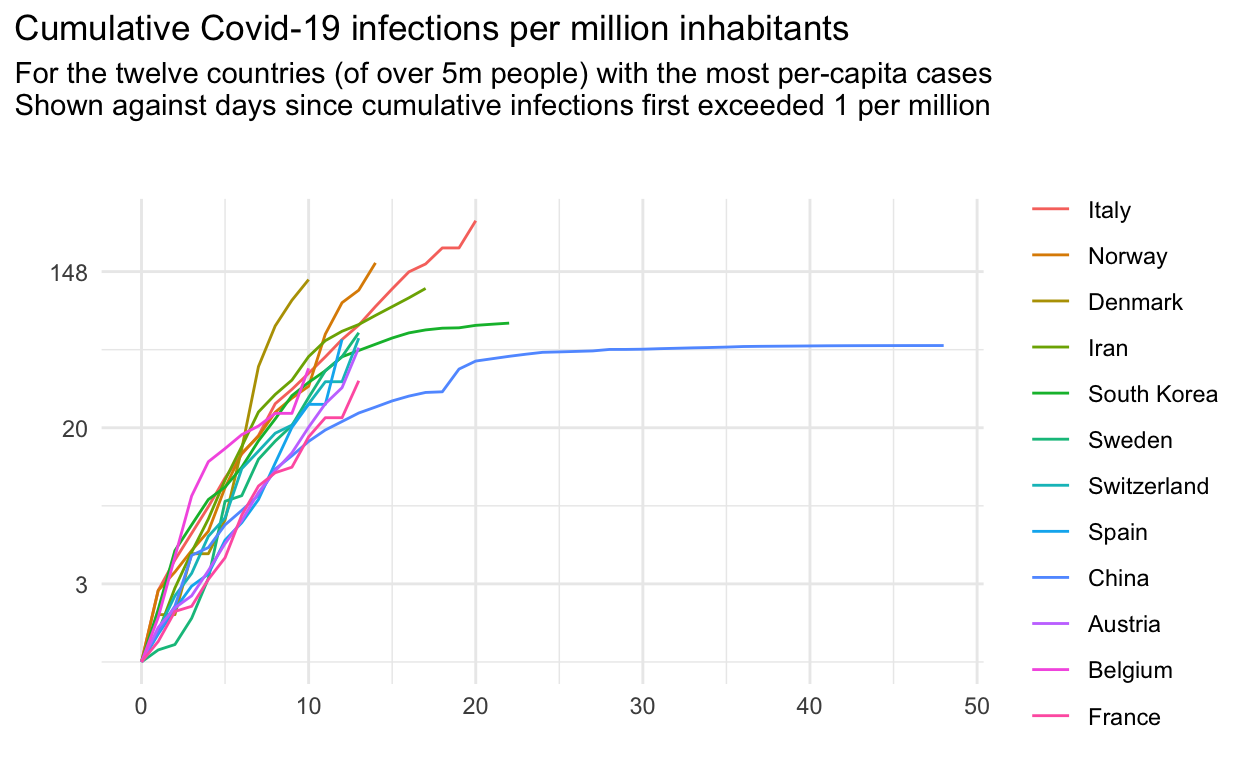
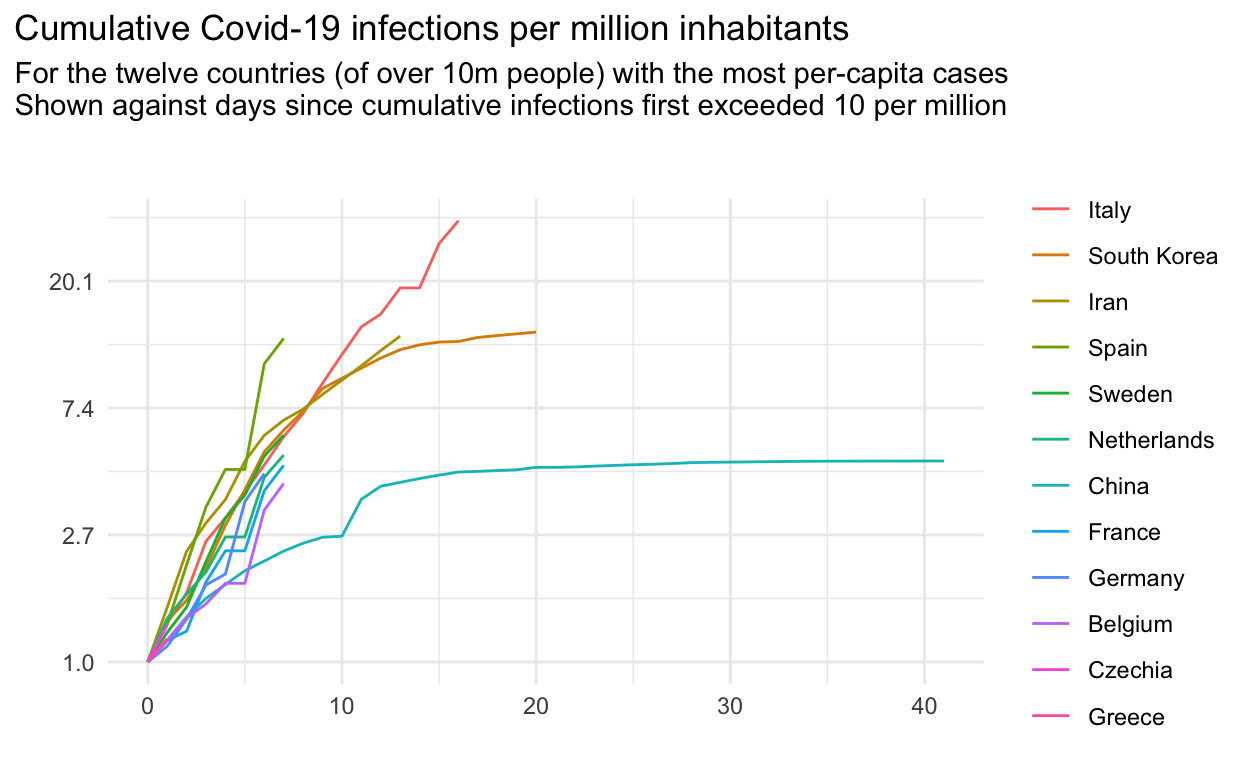
Tweaking minimum population and cases

diff --git a/public/posts/2020-03-14-covid/index.html b/public/posts/2020-03-14-covid/index.html
@@ -50,7 +50,7 @@
 <!--/radix_placeholder_rmarkdown_metadata-->
   
   <script type="text/json" id="radix-resource-manifest">
-  {"type":"character","attributes":{},"value":["covid_files/bowser-1.9.3/bowser.min.js","covid_files/distill-2.2.21/template.v2.js","covid_files/figure-html5/data-1.png","covid_files/figure-html5/rebased-1.png","covid_files/jquery-1.11.3/jquery.min.js","covid_files/webcomponents-2.0.0/webcomponents.js"]}
+  {"type":"character","attributes":{},"value":["covid_files/bowser-1.9.3/bowser.min 2.js","covid_files/bowser-1.9.3/bowser.min.js","covid_files/distill-2.2.21/template.v2 2.js","covid_files/distill-2.2.21/template.v2.js","covid_files/figure-html5/data-1 2.png","covid_files/figure-html5/data-1.png","covid_files/figure-html5/rebased-1 2.png","covid_files/figure-html5/rebased-1.png","covid_files/jquery-1.11.3/jquery.min 2.js","covid_files/jquery-1.11.3/jquery.min.js","covid_files/webcomponents-2.0.0/webcomponents 2.js","covid_files/webcomponents-2.0.0/webcomponents.js"]}
   </script>
   <!--radix_placeholder_navigation_in_header-->
 
@@ -1349,7 +1349,7 @@ document.addEventListener('DOMContentLoaded', function() {
 <p></br></p>
 <p>Whilst this chart has a log scale, there is no sense of the country’s population.</p>
 <p>At some level, of course, cases are cases: they sadly represent people suffering. In other ways, however, a thousand cases in China (with a population of over a billion) suggests a proportionately smaller problem than a thousand cases in Norway (with a population of just over 5 million).</p>
-<p>In the following chart, I show the cases per million of population.</p>
+<p>In the following chart, I show the cases per million of population, but only in instances where there have already been many cases.</p>
 <p></br></p>
 <div class="layout-chunk" data-layout="l-body-outset">
 <p><img src="covid_files/figure-html5/rebased-1.png" width="624" data-distill-preview=1 /></p>
@@ -1372,8 +1372,8 @@ library(tidyverse)
 library(wbstats)
 
 country_num &lt;- 12
-pop_min &lt;- 5000000
-cases_PM_init &lt;- 1
+pop_min &lt;- 10000000
+cases_PM_init &lt;- 10
 
 # Get data ----
 data &lt;- read_csv(&#39;https://raw.githubusercontent.com/CSSEGISandData/COVID-19/master/csse_covid_19_data/csse_covid_19_time_series/time_series_19-covid-Confirmed.csv&#39;) %&gt;% 
@@ -1502,7 +1502,7 @@ data_tidy %&gt;%
     y = &quot;&quot;,
     colour = &quot;&quot;,
     title = &quot;Daily cumulative Covid-19 infections&quot;,
-    subtitle = &quot;For the twelve countries with the most cases \n \n&quot;
+    subtitle = &quot;For the twelve countries (of over 10m people) with the most cases \n \n&quot;
   )</code></pre>
 </div>
 <h2 id="rebased-chart" class="appendix">Rebased chart</h2>
@@ -1540,7 +1540,7 @@ data_rebased %&gt;%
     y = &quot;&quot;,
     colour = &quot;&quot;,
     title = &quot;Cumulative Covid-19 infections per million inhabitants&quot;,
-    subtitle = &quot;For the twelve countries (of over 5m people) with the most per-capita cases \nShown against days since cumulative infections first exceeded 1 per million \n \n&quot;
+    subtitle = &quot;For the twelve countries (of over 10m people) with the most per-capita cases \nShown against days since cumulative infections first exceeded 10 per million \n \n&quot;
   )</code></pre>
 </div>
 <h2 id="system-settings" class="appendix">System settings</h2>

diff --git a/_posts/2020-03-14-covid/covid.html b/_posts/2020-03-14-covid/covid.html
@@ -49,7 +49,7 @@
   <!--/radix_placeholder_rmarkdown_metadata-->
   
   <script type="text/json" id="radix-resource-manifest">
-  {"type":"character","attributes":{},"value":["covid_files/bowser-1.9.3/bowser.min.js","covid_files/distill-2.2.21/template.v2.js","covid_files/figure-html5/data-1.png","covid_files/figure-html5/rebased-1.png","covid_files/jquery-1.11.3/jquery.min.js","covid_files/webcomponents-2.0.0/webcomponents.js"]}
+  {"type":"character","attributes":{},"value":["covid_files/bowser-1.9.3/bowser.min 2.js","covid_files/bowser-1.9.3/bowser.min.js","covid_files/distill-2.2.21/template.v2 2.js","covid_files/distill-2.2.21/template.v2.js","covid_files/figure-html5/data-1 2.png","covid_files/figure-html5/data-1.png","covid_files/figure-html5/rebased-1 2.png","covid_files/figure-html5/rebased-1.png","covid_files/jquery-1.11.3/jquery.min 2.js","covid_files/jquery-1.11.3/jquery.min.js","covid_files/webcomponents-2.0.0/webcomponents 2.js","covid_files/webcomponents-2.0.0/webcomponents.js"]}
   </script>
   <!--radix_placeholder_navigation_in_header-->
   <!--/radix_placeholder_navigation_in_header-->
@@ -972,7 +972,7 @@
 <p></br></p>
 <p>Whilst this chart has a log scale, there is no sense of the country’s population.</p>
 <p>At some level, of course, cases are cases: they sadly represent people suffering. In other ways, however, a thousand cases in China (with a population of over a billion) suggests a proportionately smaller problem than a thousand cases in Norway (with a population of just over 5 million).</p>
-<p>In the following chart, I show the cases per million of population.</p>
+<p>In the following chart, I show the cases per million of population, but only in instances where there have already been many cases.</p>
 <p></br></p>
 <div class="layout-chunk" data-layout="l-body-outset">
 <p><img src="covid_files/figure-html5/rebased-1.png" width="624" data-distill-preview=1 /></p>
@@ -995,8 +995,8 @@ library(tidyverse)
 library(wbstats)
 
 country_num &lt;- 12
-pop_min &lt;- 5000000
-cases_PM_init &lt;- 1
+pop_min &lt;- 10000000
+cases_PM_init &lt;- 10
 
 # Get data ----
 data &lt;- read_csv(&#39;https://raw.githubusercontent.com/CSSEGISandData/COVID-19/master/csse_covid_19_data/csse_covid_19_time_series/time_series_19-covid-Confirmed.csv&#39;) %&gt;% 
@@ -1125,7 +1125,7 @@ data_tidy %&gt;%
     y = &quot;&quot;,
     colour = &quot;&quot;,
     title = &quot;Daily cumulative Covid-19 infections&quot;,
-    subtitle = &quot;For the twelve countries with the most cases \n \n&quot;
+    subtitle = &quot;For the twelve countries (of over 10m people) with the most cases \n \n&quot;
   )</code></pre>
 </div>
 <h2 id="rebased-chart" class="appendix">Rebased chart</h2>
@@ -1163,7 +1163,7 @@ data_rebased %&gt;%
     y = &quot;&quot;,
     colour = &quot;&quot;,
     title = &quot;Cumulative Covid-19 infections per million inhabitants&quot;,
-    subtitle = &quot;For the twelve countries (of over 5m people) with the most per-capita cases \nShown against days since cumulative infections first exceeded 1 per million \n \n&quot;
+    subtitle = &quot;For the twelve countries (of over 10m people) with the most per-capita cases \nShown against days since cumulative infections first exceeded 10 per million \n \n&quot;
   )</code></pre>
 </div>
 <h2 id="system-settings" class="appendix">System settings</h2>
